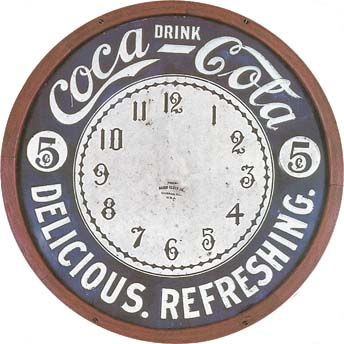
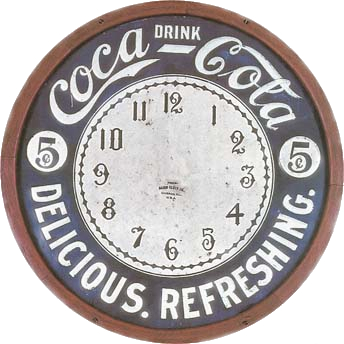
Relógio e ponteiros rodando, consertar

diff --git a/source/desafio-03/LUtil.py b/source/desafio-03/LUtil.py
@@ -1,7 +1,6 @@
-from OpenGL.GL import *
-from OpenGL.GLU import *
-from OpenGL.GLUT import *
 from LTexture import *
+from Ponteiro import *
+from Relogio import *
 
 #Constantes de Tela
 SCREEN_WIDTH = 640;
@@ -9,28 +8,36 @@ SCREEN_HEIGHT = 480;
 SCREEN_FPS = 60;
 
 #Textura do tabuleiro de damas
-gLoadedTexture = LTexture();
+gRelogio = None
+gPonteiroH = None
+gPonteiroM = None
+gPonteiroS = None
 screenColor = [0,0,0,1]
 
 def initGL():
 	#Definindo a janela de exibição (Viewport)
-	glViewport(0,0,SCREEN_WIDTH,SCREEN_HEIGHT)
+	glViewport(-SCREEN_WIDTH//2,-SCREEN_HEIGHT//2,SCREEN_WIDTH//2,SCREEN_HEIGHT//2)
 
 	#Inicializando Matriz de Projeção
 	glMatrixMode(GL_PROJECTION);
 	glLoadIdentity();
-	glOrtho(0.0, SCREEN_WIDTH, SCREEN_HEIGHT, 0.0, 1.0, -1.0);
+	glOrtho(-SCREEN_WIDTH//2, SCREEN_WIDTH//2, SCREEN_HEIGHT//2, -SCREEN_HEIGHT//2, 1.0, -1.0);
 
 	#Inicializando Matriz de modelo de exibição (Modelview)
 	glMatrixMode(GL_MODELVIEW);
 	glLoadIdentity();
+
+	#Salvando a matriz padrão
+	glPushMatrix()
 
 	#Inicializando a tela com a cor preta
 	glClearColor(screenColor[0], screenColor[1], screenColor[2], screenColor[3]);
 
 	#Habilitando textura
 	glEnable(GL_TEXTURE_2D)
-	glEnable(GL_ALPHA_TEST)
+	glEnable(GL_BLEND)
+	glDisable(GL_DEPTH_TEST)
+	glBlendFunc(GL_SRC_ALPHA, GL_ONE_MINUS_SRC_ALPHA)
 
 	#Verificando se há erros
 	erro = glGetError()
@@ -40,27 +47,69 @@ def initGL():
 	return True
 
 def loadMedia():
+	global gRelogio, gPonteiroH, gPonteiroM, gPonteiroS
+	gRelogio = Relogio()
+	gPonteiroH = Ponteiro('h')
+	gPonteiroM = Ponteiro('m')
+	gPonteiroS = Ponteiro('s')
 	#Carregando textura
-	if(gLoadedTexture.loadTextureFromFile("relogioCoca.jpg", screenColor)):
-		return True
-	else:
+	flag = gRelogio.loadTextureFromFile("relogioCoca.png", screenColor)
+	if(flag):
+		flag = gPonteiroH.loadTextureFromFile("pontHoras.png")
+	if(flag):
+		flag = gPonteiroM.loadTextureFromFile("pontMinutos.png")
+	if(flag):
+		flag = gPonteiroS.loadTextureFromFile("pontSegundos.png")
+	if(not flag):
 		print("Não foi possível carregar a textura!")
-		return False
+	return flag
 
 def update():
-	pass
+	global gPonteiroH
+	gPonteiroH.rang += 1
 
 def render():
+	global gRelogio, gPonteiro
 	#Limpando o buffer de cor
-	glClear(GL_COLOR_BUFFER_BIT);
+	glClear(GL_COLOR_BUFFER_BIT)
 
 	#Obtendo coordenadas centrais
-	x = (SCREEN_WIDTH - gLoadedTexture.textureWidth()) / 2
-	y = (SCREEN_HEIGHT - gLoadedTexture.textureHeight()) / 2
+	x = (SCREEN_WIDTH - gRelogio.textureWidth()) / 2
+	y = (SCREEN_HEIGHT - gRelogio.textureHeight()) / 2
 
-	#Renderizando textura do tabuleiro
-	gLoadedTexture.render(x,y)
+	#Atualizando Matriz
+	updateMatrix()
 
+	#Renderizando relogio
+	gRelogio.render(x,y)
+
+	x = (SCREEN_WIDTH - gPonteiroH.textureWidth()) / 2
+	y = (SCREEN_HEIGHT - gPonteiroH.textureHeight()) / 2 - 10
+	
+	#Atualizando Matriz
+	updateMatrix()
+
+	#Renderizando ponteiro
+	gPonteiroH.render(x,y)
+	
+	x = (SCREEN_WIDTH - gPonteiroM.textureWidth()) / 2
+	y = (SCREEN_HEIGHT - gPonteiroM.textureHeight()) / 2
+
+	#Atualizando Matriz
+	updateMatrix()
+
+	#Renderizando ponteiro
+	gPonteiroM.render(x,y)
+
+	x = (SCREEN_WIDTH - gPonteiroS.textureWidth()) / 2
+	y = (SCREEN_HEIGHT - gPonteiroS.textureHeight()) / 2
+
+	#Atualizando Matriz
+	updateMatrix()
+
+	#Renderizando ponteiro
+	gPonteiroS.render(x,y)
+	
 	#Atualizando tela
 	glutSwapBuffers()
 
@@ -71,3 +120,12 @@ def runMainLoop(val):
 
 	#Executando o frame mais uma vez
 	glutTimerFunc(1000 // SCREEN_FPS, runMainLoop, val)
+
+def updateMatrix():
+	#Retirando a matriz padrão para a matriz atual
+	glMatrixMode(GL_MODELVIEW)
+	glPopMatrix()
+	glLoadIdentity()
+
+	#Salvando matriz padrão
+	glPushMatrix()

diff --git a/source/desafio-03/LTexture.py b/source/desafio-03/LTexture.py
@@ -4,6 +4,8 @@ from OpenGL.GLUT import *
 from PIL import Image
 from PIL.Image import open
 
+DEFAULT_TEXTURE_WRAP = GL_REPEAT
+
 class LTexture:
 	mTextureID = 0
 	mTextureWidth = 0
@@ -29,18 +31,12 @@ class LTexture:
 		self.freeTexture(self)
 
 	def loadTextureFromPixels32(self,pixels,width,height):
-		#Limpa textura se existir
-		self.freeTexture(self)
-
 		#Obtém as dimensões da textura
 		self.mTextureWidth = width
 		self.mTextureHeight = height
 
 		#Gera textura ID
-		glGenTextures(1,self.mTextureID)
-
-		#Define a ID da textura
-		self.mTextureID = 1
+		self.mTextureID = glGenTextures(1)
 
 		#Cria textura ID
 		glBindTexture(GL_TEXTURE_2D,self.mTextureID)
@@ -52,6 +48,8 @@ class LTexture:
 		#Definindo parâmetros da textura
 		glTexParameteri(GL_TEXTURE_2D, GL_TEXTURE_MAG_FILTER, GL_LINEAR)
 		glTexParameteri(GL_TEXTURE_2D, GL_TEXTURE_MIN_FILTER, GL_LINEAR)
+		glTexParameteri(GL_TEXTURE_2D, GL_TEXTURE_WRAP_S, DEFAULT_TEXTURE_WRAP)
+		glTexParameteri(GL_TEXTURE_2D, GL_TEXTURE_WRAP_T, DEFAULT_TEXTURE_WRAP)
 
 		#Liberando textura
 		glBindTexture(GL_TEXTURE_2D,0)
@@ -63,13 +61,12 @@ class LTexture:
 			return False
 		return True
 
-	def loadTextureFromFile(self,imagem, screenColor):
+	def loadTextureFromFile(self,imagem, screenColor = [0,0,0,0]):
 		textureLoaded = False
 
 		#Gerando e Definindo uma imagem atual
 		im = open(imagem).convert("RGBA")
 		if(im != None):
-			im = self.transparentImage(im, screenColor, False)
 			#Criando a textura a partir dos pixels do arquivo
 			imagem = im.tobytes("raw","RGBA",0,-1)
 			textureLoaded = self.loadTextureFromPixels32(imagem,im.size[0],im.size[1])
@@ -77,60 +74,6 @@ class LTexture:
 		if(textureLoaded == False):
 			print("Não foi possível carregar a imagem!")
 		return textureLoaded
-
-	def render(self,x,y):
-		#Se a textura existel
-		if(self.mTextureID != 0):
-			#Remove quaisquer transformações anteriores
-			glLoadIdentity()
-
-			#Movendo para o ponto de renderização
-			glTranslatef(x,y,0)
-
-			#Definindo textura ID
-			glBindTexture(GL_TEXTURE_2D,self.mTextureID)
-
-			#Renderizando quadrados texturizados
-			glBegin(GL_QUADS)
-			glTexCoord2f(0,0)
-			glVertex2f(0,self.mTextureHeight)
-			glTexCoord2f(1,0)
-			glVertex2f(self.mTextureWidth,self.mTextureHeight)
-			glTexCoord2f(1,1)
-			glVertex2f(self.mTextureWidth,0)
-			glTexCoord2f(0,1)
-			glVertex2f(0,0)
-			glEnd()
-
-	def transparentImage(self, im, color, fullRange = True):
-		if(fullRange):
-			for col in range(0,im.size[0]):
-				for lin in range(0,im.size[1]):
-					r,g,b,a = im.getpixel((lin, col))
-					imColor = [r,g,b,a]
-					if(r > 208 and g > 185 and b > 175):
-						im.putpixel((lin, col), (color[0], color[1], color[2], color[3]))
-		else:	
-			#Varrendo lado esquerdo
-			for col in range(0,im.size[0]):
-				for lin in range(0,im.size[1]):
-					r,g,b,a = im.getpixel((lin, col))
-					if(r > 208 and g > 185 and b > 175):
-						im.putpixel((lin, col), (color[0], color[1], color[2], color[3]))
-					else:						
-						break
-			#Varrendo lado direito
-			width = im.size[0] - 1
-			height = im.size[1] - 1
-			for col in range(width, -1,-1):
-				for lin in range(height,0,-1):
-					r,g,b,a = im.getpixel((lin, col))
-					imColor = [r,g,b,a]
-					if(r > 208 and g > 185 and b > 175):
-						im.putpixel((lin, col), (color[0], color[1], color[2], color[3]))
-					else:
-						break
-		return im
 
 	def getTextureID(self):
 		return self.mTextureID

diff --git a/source/desafio-03/Ponteiro.py b/source/desafio-03/Ponteiro.py
@@ -1,0 +1,35 @@
+from LTexture import*
+
+class Ponteiro(LTexture):
+	def __init__(self, hms):
+		LTexture.__init__(self)
+		self.hms = hms
+		self.rang = 0
+
+	def render(self,x,y):
+		global rang
+		#Se a textura existel
+		if(self.mTextureID != 0):
+			self.rang += 1
+			#Remove quaisquer transformações anteriores
+			glLoadIdentity()
+
+			#Movendo para o ponto de renderização
+			glRotatef(self.rang,0,0,1)
+			glTranslatef(0,-18,0)
+			
+
+			#Definindo textura ID
+			glBindTexture(GL_TEXTURE_2D,self.mTextureID)
+
+			#Renderizando quadrados texturizados
+			glBegin(GL_QUADS)
+			glTexCoord2f(0,0)
+			glVertex2f(-self.mTextureWidth/2, self.mTextureHeight/2)
+			glTexCoord2f(1,0)
+			glVertex2f(self.mTextureWidth/2,self.mTextureHeight/2)
+			glTexCoord2f(1,1)
+			glVertex2f(self.mTextureWidth/2,-self.mTextureHeight/2)
+			glTexCoord2f(0,1)			
+			glVertex2f(-self.mTextureWidth/2,-self.mTextureHeight/2)
+			glEnd()

diff --git a/source/desafio-03/Relogio.py b/source/desafio-03/Relogio.py
@@ -1,0 +1,30 @@
+from LTexture import *
+
+class Relogio(LTexture):
+	Textura = None
+	def __init__(self):
+		Textura = LTexture.__init__(self)
+
+	def render(self,x,y):
+		#Se a textura existel
+		if(self.mTextureID != 0):
+			#Remove quaisquer transformações anteriores
+			glLoadIdentity()
+
+			#Movendo para o ponto de renderização
+			#glTranslatef(x,y,0)
+
+			#Definindo textura ID
+			glBindTexture(GL_TEXTURE_2D,self.mTextureID)
+
+			#Renderizando quadrados texturizados
+			glBegin(GL_QUADS)
+			glTexCoord2f(0,0)
+			glVertex2f(-self.mTextureWidth/2, self.mTextureHeight/2)
+			glTexCoord2f(1,0)
+			glVertex2f(self.mTextureWidth/2,self.mTextureHeight/2)
+			glTexCoord2f(1,1)
+			glVertex2f(self.mTextureWidth/2,-self.mTextureHeight/2)
+			glTexCoord2f(0,1)			
+			glVertex2f(-self.mTextureWidth/2,-self.mTextureHeight/2)
+			glEnd()

diff --git a/source/desafio-03/PonteiroVertex.py b/source/desafio-03/PonteiroVertex.py
@@ -1,0 +1,15 @@
+from OpenGL.GL import *
+from OpenGL.GLU import *
+from OpenGL.GLUT import *
+
+class PonteiroVertex():
+	def __init__(self, hms):
+		self.hms = hms
+
+	def render(self):
+		glBegin(GL_LINES)
+		glColor3f(1,0,0)
+		glVertex2f(50,100)
+		glColor3f(1,0,0)
+		glVertex2f(150,200)
+		glEnd()
